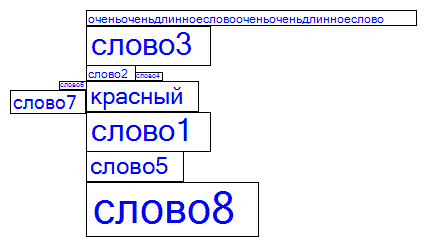
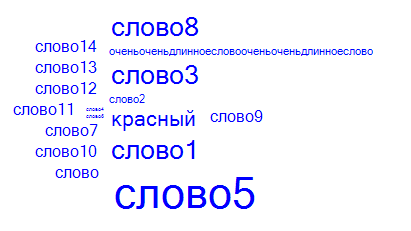
fixes

Changed region(s): [[0.0, 0.0303, 0.9927, 0.9697]]

diff --git a/TagsCloudContainer/Visualization/Tests/CircularCloudLayouter_Should.cs b/TagsCloudContainer/Visualization/Tests/CircularCloudLayouter_Should.cs
@@ -1,16 +1,14 @@
 using System;
 using System.Collections.Generic;
-using System.Drawing;
 using System.Drawing.Imaging;
 using System.IO;
 using FluentAssertions;
 using NUnit.Framework;
 using NUnit.Framework.Interfaces;
-using TagsCloudContainer.Parameters_Providing;
 using TagsCloudContainer.RectangleTranslation;
-using TagsCloudContainer.Vizualization;
+using TagsCloudContainer.Settings_Providing;
 
-namespace TagsCloudContainer
+namespace TagsCloudContainer.Vizualization.Tests
 {
     [TestFixture]
     public class CircularCloudLayouter_Should
@@ -19,8 +17,7 @@ namespace TagsCloudContainer
 
         private CircularCloudLayouter layouter;
 
-        //private static string TestDirectoryPath => Path.Combine(Directory.GetCurrentDirectory(), @"\visualization\");
-        private static string TestDirectoryPath => @"C:\Users\DanKor\Desktop\test";
+        private static string TestDirectoryPath => Path.Combine(Directory.GetCurrentDirectory(), @"\visualization\");
 
         [SetUp]
         public void Initialize()
@@ -32,10 +29,10 @@ namespace TagsCloudContainer
         [TearDown]
         public void TearDown()
         {
-            //if (TestContext.CurrentContext.Result.Outcome != ResultState.Failure)
-            //{
-            //    return;
-            //}
+            if (TestContext.CurrentContext.Result.Outcome != ResultState.Failure)
+            {
+                return;
+            }
 
             var fullPath = Path.Combine(TestDirectoryPath, TestContext.CurrentContext.Test.FullName + ".png");
             var image = visualizer.GetVisualization(layouter.GetWordsRectangles());

diff --git a/TagsCloudContainer/Visualization/CircularCloudLayouter.cs b/TagsCloudContainer/Visualization/CircularCloudLayouter.cs
@@ -3,10 +3,9 @@ using System.Collections.Generic;
 using System.Drawing;
 using System.Linq;
 using TagsCloudContainer.RectangleTranslation;
-using TagsCloudContainer.Vizualization;
+using TagsCloudContainer.Vizualization.Interfaces;
 
-
-namespace TagsCloudContainer
+namespace TagsCloudContainer.Vizualization
 {
     public class CircularCloudLayouter : IWordLayouter
     {
@@ -79,7 +78,7 @@ namespace TagsCloudContainer
         {
             var stepSize = rectangle.X < center.X ? 1 : -1;
             var checkedRectangle = new RectangleF(rectangle.X, rectangle.Y, rectangle.Width, rectangle.Height);
-            while (IsCorrectToPlace(checkedRectangle) && checkedRectangle.X != center.X)
+            while (IsCorrectToPlace(checkedRectangle) && Math.Abs(checkedRectangle.X - center.X) > 0.5)
             {
                 checkedRectangle.X += stepSize;
             }
@@ -96,7 +95,7 @@ namespace TagsCloudContainer
         {
             var stepSize = rectangle.Y < center.Y ? 1 : -1;
             var checkedRectangle = new RectangleF(rectangle.X, rectangle.Y, rectangle.Width, rectangle.Height);
-            while (IsCorrectToPlace(checkedRectangle) && checkedRectangle.Y != center.Y)
+            while (IsCorrectToPlace(checkedRectangle) && Math.Abs(checkedRectangle.Y - center.Y) > 0.5)
             {
                 checkedRectangle.Y += stepSize;
             }

diff --git a/TagsCloudContainer/Program.cs b/TagsCloudContainer/Program.cs
@@ -1,10 +1,11 @@
 using System.IO;
 using Autofac;
 using NHunspell;
-using TagsCloudContainer.Parameters_Providing;
 using TagsCloudContainer.Parsing;
 using TagsCloudContainer.RectangleTranslation;
+using TagsCloudContainer.Settings_Providing;
 using TagsCloudContainer.Vizualization;
+using TagsCloudContainer.Vizualization.Interfaces;
 using TagsCloudContainer.Word_Counting;
 
 namespace TagsCloudContainer
@@ -20,13 +21,6 @@ namespace TagsCloudContainer
             {
                 var layouter = scope.Resolve<ICloudLayouter>();
                 layouter.Layout(Path.Combine("..","..","example.txt"), Path.Combine("..","..","example.png"));
-                //var parser = new TxtParser();
-                //var parsedWords = parser.ParseFile(Path.Combine("..", "..", "example.txt"));
-                //var wordCounter = scope.Resolve<IWordCounter>();
-                //var countedWords = wordCounter.CountWords(parsedWords);
-                //var rectangleTranslator = scope.Resolve<ISizeTranslator>();
-                //var rectangles = rectangleTranslator.TranslateWordsToSizedWords(countedWords);
-                //var a = 0;
             }
         }
 

diff --git a/TagsCloudContainer/Visualization/ArchimedeanSpiral.cs b/TagsCloudContainer/Visualization/ArchimedeanSpiral.cs
@@ -1,7 +1,8 @@
 using System;
 using System.Drawing;
+using TagsCloudContainer.Vizualization.Interfaces;
 
-namespace TagsCloudContainer
+namespace TagsCloudContainer.Vizualization
 {
     public class ArchimedeanSpiral : ILayoutAlgorithm
     {
@@ -12,7 +13,7 @@ namespace TagsCloudContainer
         private double phi;
         private double Radius => a + b * phi;
 
-        public ArchimedeanSpiral(Point center, double angleStep = Math.PI / 180, double a = 0, double b = 0.5)
+        public ArchimedeanSpiral(Point center, double angleStep = Math.PI / 180, double a = 0, double b = 2)
         {
             phi = -angleStep;
             this.center = center;

diff --git a/TagsCloudContainer/Settings Providing/SettingsProvider.cs b/TagsCloudContainer/Settings Providing/SettingsProvider.cs
@@ -1,6 +1,7 @@
 using System.Drawing;
+using TagsCloudContainer.Vizualization;
 
-namespace TagsCloudContainer.Parameters_Providing
+namespace TagsCloudContainer.Settings_Providing
 {
     public class SettingsProvider : ISettingsProvider
     {
@@ -13,7 +14,7 @@ namespace TagsCloudContainer.Parameters_Providing
         {
             return new Settings("", "",
                 new ColoringOptions(new SolidBrush(Color.Transparent),
-                    new SolidBrush(Color.White), new Pen(Color.Black), new SolidBrush(Color.Blue)));
+                    new SolidBrush(Color.White), new Pen(Color.Transparent), new SolidBrush(Color.Blue)));
         }
     }
 }

diff --git a/TagsCloudContainer/Visualization/CircularCloudVisualizer.cs b/TagsCloudContainer/Visualization/CircularCloudVisualizer.cs
@@ -2,10 +2,9 @@
 using System.Collections.Generic;
 using System.Drawing;
 using System.Linq;
-using TagsCloudContainer.RectangleTranslation;
-using TagsCloudContainer.Vizualization;
+using TagsCloudContainer.Vizualization.Interfaces;
 
-namespace TagsCloudContainer
+namespace TagsCloudContainer.Vizualization
 {
     public class CircularCloudVisualizer : IVisualizer
     {

diff --git a/TagsCloudContainer/CloudLayouter.cs b/TagsCloudContainer/CloudLayouter.cs
@@ -1,6 +1,7 @@
 using TagsCloudContainer.Parsing;
 using TagsCloudContainer.RectangleTranslation;
 using TagsCloudContainer.Vizualization;
+using TagsCloudContainer.Vizualization.Interfaces;
 using TagsCloudContainer.Word_Counting;
 
 namespace TagsCloudContainer

diff --git a/TagsCloudContainer/Visualization/Interfaces/IWordLayouter.cs b/TagsCloudContainer/Visualization/Interfaces/IWordLayouter.cs
@@ -1,7 +1,7 @@
 using System.Collections.Generic;
 using TagsCloudContainer.RectangleTranslation;
 
-namespace TagsCloudContainer.Vizualization
+namespace TagsCloudContainer.Vizualization.Interfaces
 {
     public interface IWordLayouter
     {

diff --git a/TagsCloudContainer/Visualization/Tests/ArchimedeanSpiral_Should.cs b/TagsCloudContainer/Visualization/Tests/ArchimedeanSpiral_Should.cs
@@ -3,7 +3,7 @@ using System.Drawing;
 using FluentAssertions;
 using NUnit.Framework;
 
-namespace TagsCloudContainer
+namespace TagsCloudContainer.Vizualization.Tests
 {
     [TestFixture]
     public class ArchimedeanSpiral_Should

diff --git a/TagsCloudContainer/Visualization/Interfaces/IVisualizer.cs b/TagsCloudContainer/Visualization/Interfaces/IVisualizer.cs
@@ -1,7 +1,6 @@
 using System.Collections.Generic;
-using TagsCloudContainer.RectangleTranslation;
 
-namespace TagsCloudContainer
+namespace TagsCloudContainer.Vizualization.Interfaces
 {
     public interface IVisualizer
     {

diff --git a/TagsCloudContainer/Visualization/WordRectangle.cs b/TagsCloudContainer/Visualization/WordRectangle.cs
@@ -1,6 +1,7 @@
 using System.Drawing;
+using TagsCloudContainer.RectangleTranslation;
 
-namespace TagsCloudContainer.RectangleTranslation
+namespace TagsCloudContainer.Vizualization
 {
     public class WordRectangle
     {

diff --git a/TagsCloudContainer/Settings Providing/Settings.cs b/TagsCloudContainer/Settings Providing/Settings.cs
@@ -1,4 +1,6 @@
-namespace TagsCloudContainer.Parameters_Providing
+using TagsCloudContainer.Vizualization;
+
+namespace TagsCloudContainer.Settings_Providing
 {
     public class Settings
     {
